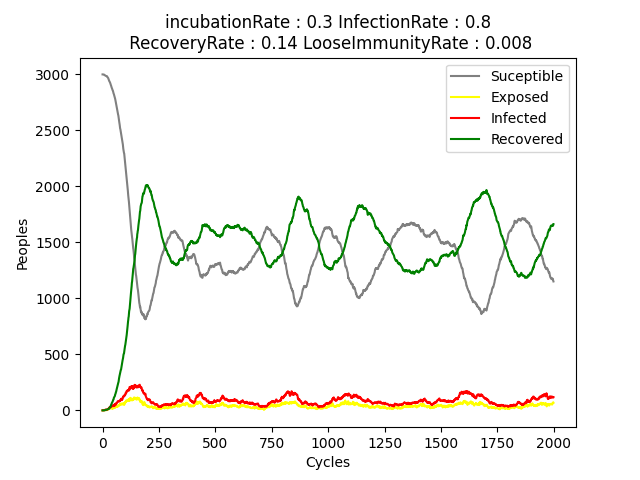
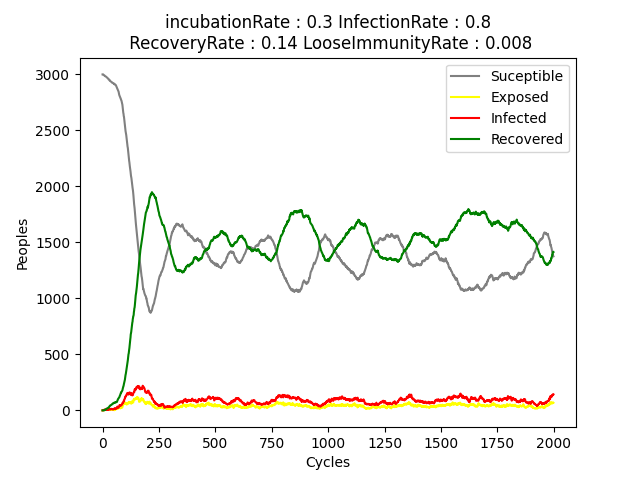
fixed deterministic scheduler, now working as intended

Changed region(s): [[0.1562, 0.1562, 0.875, 0.875]]

diff --git a/src/main/java/scheduler/DeterministScheduler.java b/src/main/java/scheduler/DeterministScheduler.java
@@ -6,14 +6,12 @@ import utils.YamlReader;
 import java.io.BufferedReader;
 import java.io.FileReader;
 import java.io.IOException;
-import java.util.Arrays;
-import java.util.EmptyStackException;
-import java.util.Stack;
+import java.util.*;
 
 public class DeterministScheduler implements Scheduler {
 
     private Wakeable[] agents;
-    private final Stack<String>  wakeUpOrder = new Stack<>();
+    private final Queue<String> wakeUpOrder = new LinkedList<>();
 
     public DeterministScheduler(String csvFile) {
         readCSV(csvFile);
@@ -36,9 +34,9 @@ public class DeterministScheduler implements Scheduler {
 
     @Override
     public void doNextCycle() {
-        for (int i = 0 ; i<agents.length-1; i++) {
+        for (int i = 0 ; i<agents.length; i++) {
             try {
-                int next = Integer.parseInt(wakeUpOrder.pop());
+                int next = Integer.parseInt(wakeUpOrder.poll());
                 agents[next-(int)YamlReader.getParams().seed()].wakeUp();
             } catch (EmptyStackException e) {
                 System.err.println("Last record entry was read, simulation cannot continue further.");

diff --git a/src/main/java/sma/SEIRS_SMA.java b/src/main/java/sma/SEIRS_SMA.java
@@ -153,8 +153,7 @@ public class SEIRS_SMA extends Randomized implements SMA{
             BufferedWriter bw = new BufferedWriter(fw);
 
             List<String> executionOrder= environment.getExecutionOrder();
-
-            for (int i = 0; i < executionOrder.size()-2; i++) {
+            for (int i = 0; i < executionOrder.size()-1; i++) {
                 bw.write(executionOrder.get(i)+",");
             }
             bw.write(executionOrder.get(executionOrder.size()-1));

diff --git a/outputToGraph.py b/outputToGraph.py
@@ -4,7 +4,7 @@ import matplotlib.pyplot as plt
 
 OUTPUT_FILE_LOCATION = 'src/main/resources/output.csv'
 OUTPUT_FOLDER = 'src/main/resources/pythonOutput'
-JAR_LOCATION = 'out/artifacts/SMA_SEIR_jar/SMA-SEIR.jar'
+JAR_LOCATION = 'out/artifacts/SEIR_Simple_SMA_jar/SEIR_Simple_SMA.jar'
 YAML_FILE = 'src/main/resources/parameters.yaml'
 
 
